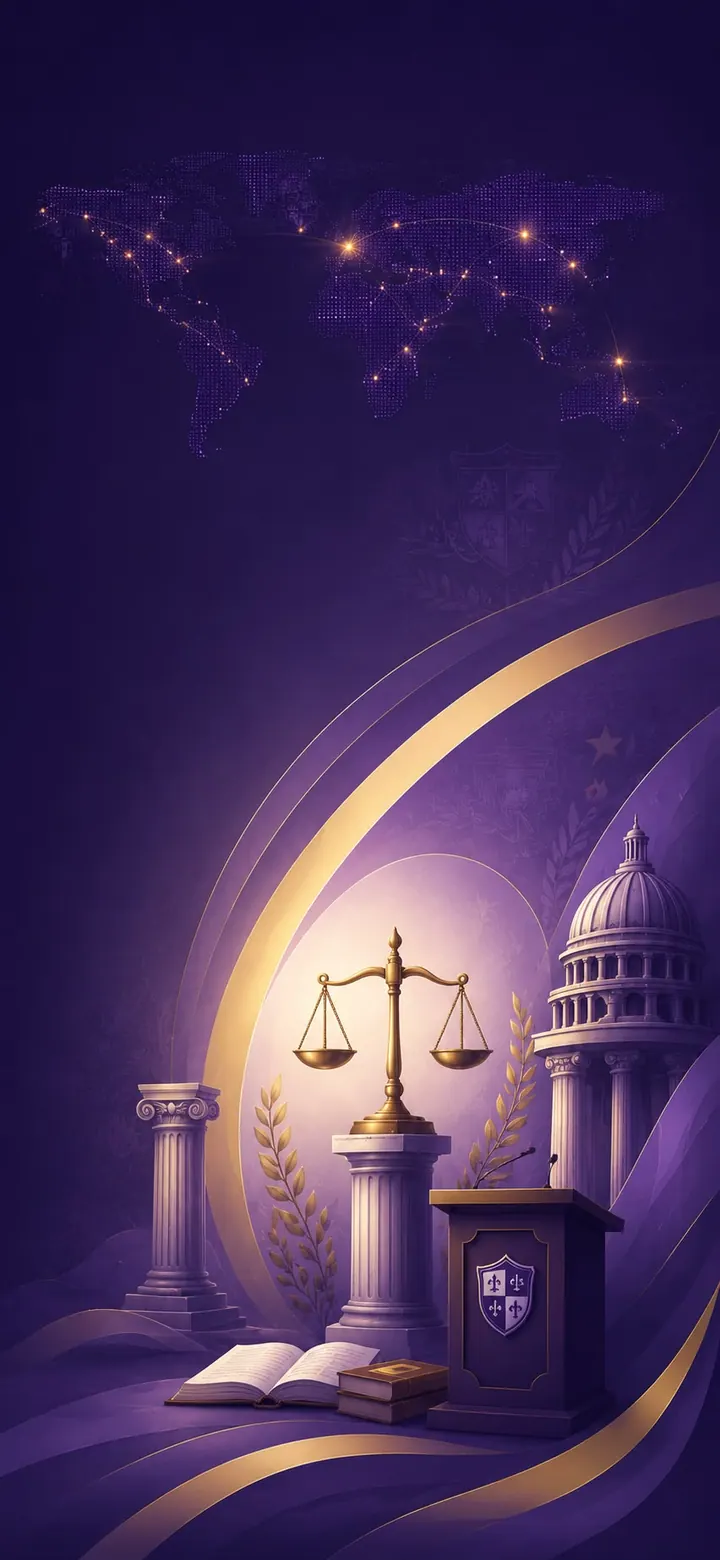
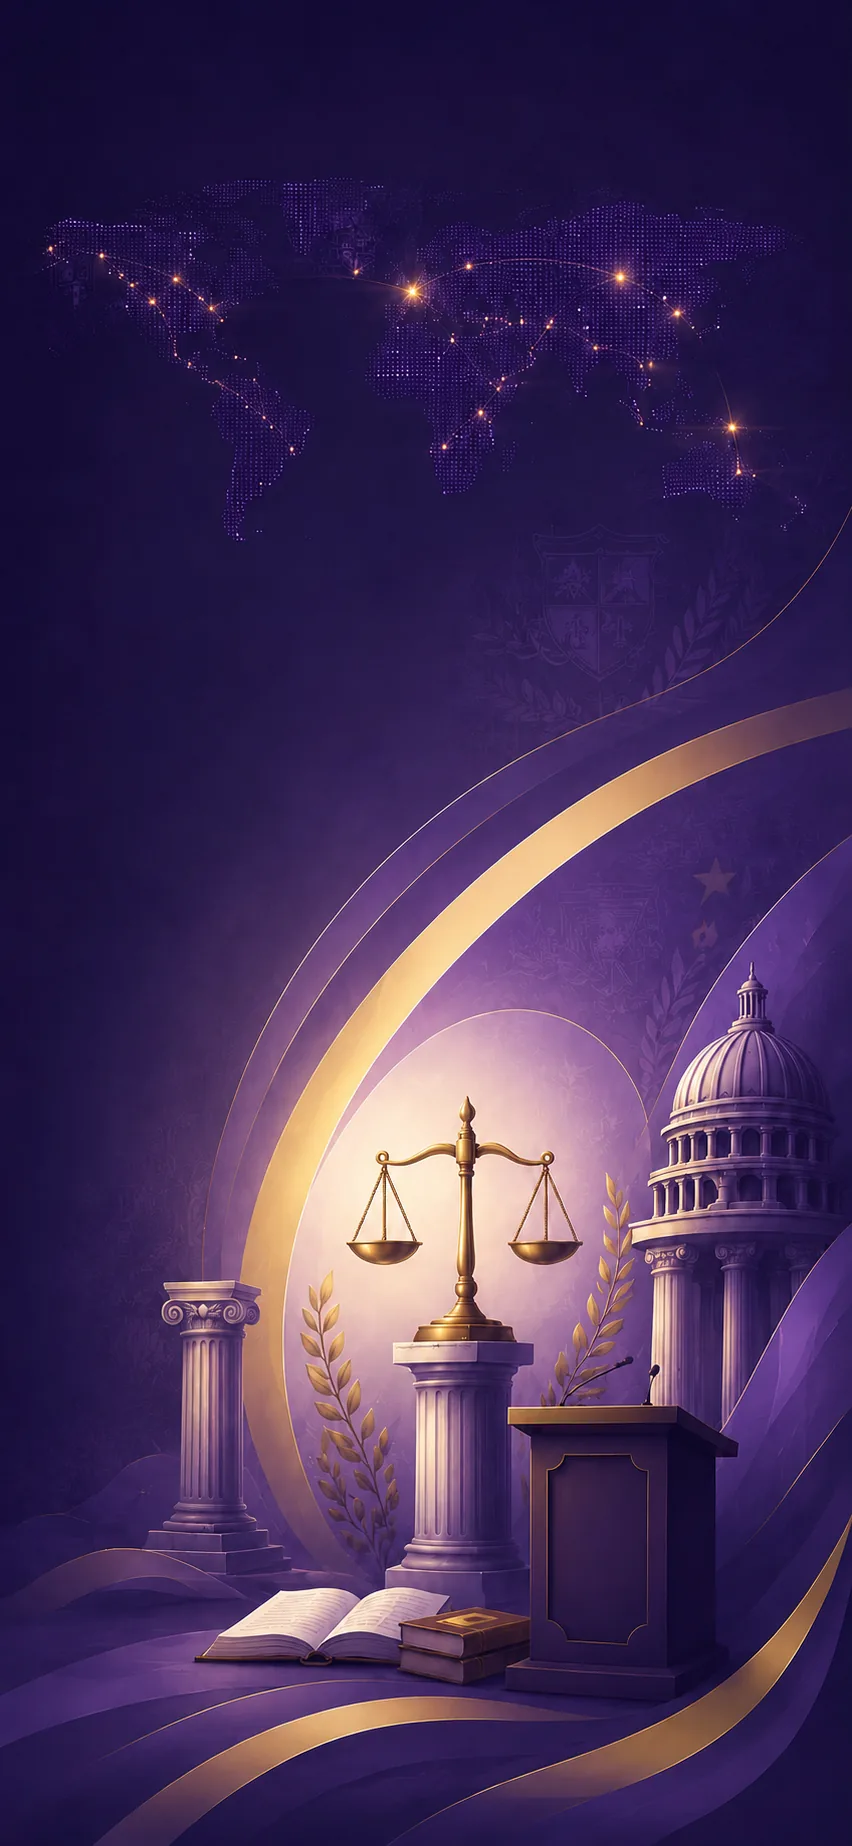
Update website

diff --git a/index.html b/index.html
@@ -4,7 +4,21 @@
 <head>
     <meta charset="UTF-8">
     <meta name="viewport" content="width=device-width, initial-scale=1.0">
-    <title>UST-L Political Science Student Portal</title>
+    <title>UST-L Political Science Student Portal | TatakPolSay UST Legazpi</title>
+
+<meta name="description" content="Official UST-L Political Science Student Portal. Explore officers, accomplishments, academic resources, Political Wisdom Library, student activities, and organization updates.">
+
+<meta name="keywords" content="UST Legazpi, Political Science, UST-L, TatakPolSay, Political Science Society, Student Portal, Philippines, Political Wisdom">
+
+<meta name="author" content="UST-L Political Science Society">
+
+<link rel="canonical" href="https://tatakpolsay-ustlegazpi.org/">
+
+<meta property="og:title" content="UST-L Political Science Student Portal">
+<meta property="og:description" content="Official website of the UST-L Political Science Society.">
+<meta property="og:url" content="https://tatakpolsay-ustlegazpi.org/">
+<meta property="og:type" content="website">
+<meta property="og:image" content="https://tatakpolsay-ustlegazpi.org/images/logo.png">
     <meta name="theme-color" content="#240046">
     <meta name="application-name" content="UST-L Political Science">
     <meta name="apple-mobile-web-app-capable" content="yes">
@@ -15,7 +29,7 @@
     <link rel="manifest" href="site.webmanifest">
     <link rel="preload" as="image" href="images/logo.png" fetchpriority="high">
     <link rel="preload" as="image" href="images/home-portal-bg-optimized.webp" media="(min-width: 721px)" fetchpriority="high">
-    <link rel="preload" as="image" href="images/home-mobile-bg-optimized.webp" media="(max-width: 720px)" fetchpriority="high">
+    <link rel="preload" as="image" href="images/home-mobile-bg-optimized.webp?v=3" media="(max-width: 720px)" fetchpriority="high">
     <link rel="prefetch" as="image" href="images/background1-optimized.webp?v=2">
     <link rel="prefetch" as="image" href="images/background-portrait.jpg">
     <style>
@@ -25,12 +39,12 @@
         }
         @media (max-width: 720px) {
             .home-hero {
-                background-image: url("images/home-mobile-bg-optimized.webp");
+                background-image: url("images/home-mobile-bg-optimized.webp?v=3");
                 background-position: center top;
             }
         }
     </style>
-    <link rel="stylesheet" href="style.css?v=bg-fast-1">
+    <link rel="stylesheet" href="style.css?v=mobile-portal-bg-3">
 </head>
 
 <body class="home-page">

diff --git a/pages/profiles/rep4.html b/pages/profiles/rep4.html
@@ -74,16 +74,16 @@
             <div class="auditor-section-icon" aria-hidden="true">&#9670;</div>
             <div>
                 <span class="auditor-section-label">Motto</span>
-                <blockquote>&quot;Leadership through service.&quot;</blockquote>
+                <blockquote>&quot;True leadership is measured by the leaders it creates.&quot;</blockquote>
             </div>
         </section>
 
         <div class="auditor-detail-grid">
             <section class="auditor-detail-card">
                 <span class="auditor-card-index">01</span>
-                <span class="auditor-section-label">Achievements</span>
-                <h2>Standards of Excellence</h2>
-                <ul><li>Dean's Lister</li><li>Outstanding Student Leader</li><li>Champion - Debate Competition</li></ul>
+                <span class="auditor-section-label">Advocacy Focus</span>
+                <h2>Leadership for the Nation and the Youth</h2>
+                <ul><li>Good Governance</li><li>Patriotism</li><li>Youth Empowerment</li></ul>
             </section>
 
             <section class="auditor-detail-card auditor-detail-card-gold">
@@ -98,8 +98,8 @@
             <span class="auditor-quote-mark" aria-hidden="true">&ldquo;</span>
             <div>
                 <span class="auditor-section-label">Favorite Political Quote</span>
-                <blockquote>&quot;The price of apathy towards public affairs is to be ruled by evil men.&quot;</blockquote>
-                <cite>&mdash; Plato</cite>
+                <blockquote>&quot;The strongest is never strong enough to remain master unless he transforms strength into right.&quot;</blockquote>
+                <cite>&mdash; Jean-Jacques Rousseau</cite>
             </div>
         </section>
     </article>

diff --git a/style.css b/style.css
@@ -6314,7 +6314,7 @@ body.home-page {
         min-height: 100vh !important;
         background:
             linear-gradient(180deg, rgba(10, 4, 32, .38) 0%, rgba(10, 4, 32, .18) 42%, rgba(10, 4, 32, .08) 100%),
-            url("images/home-mobile-bg-optimized.webp") center top / cover no-repeat !important;
+            url("images/home-mobile-bg-optimized.webp?v=3") center top / cover no-repeat !important;
         overflow: hidden;
     }
 
@@ -6702,7 +6702,7 @@ body:not(.home-page) .nav-links a:hover::after {
         min-height: 100vh !important;
         background:
             linear-gradient(180deg, rgba(10, 4, 32, .28) 0%, rgba(10, 4, 32, .12) 48%, rgba(10, 4, 32, .04) 100%),
-            url("images/home-mobile-bg-optimized.webp") center top / cover no-repeat !important;
+            url("images/home-mobile-bg-optimized.webp?v=3") center top / cover no-repeat !important;
     }
 
     .home-page .navbar.home-navbar {

diff --git a/pages/officers.html b/pages/officers.html
@@ -221,7 +221,7 @@
 <img src="../images/officers/rep4.webp" alt="" width="1400" height="2100" loading="lazy" decoding="async">
 <h3>Rhyl Jhon M. Jacob</h3>
 <h4>Fourth Year Representative</h4>
-<p>"Inspiring future leaders."</p>
+<p>"True leadership is measured by the leaders it creates."</p>
 <span>View Profile →</span>
 </a>
 
